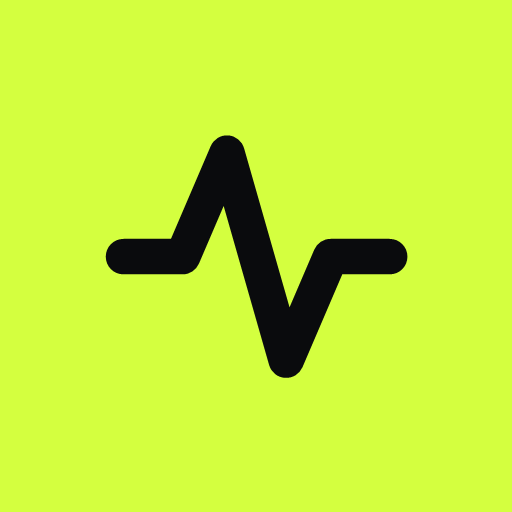
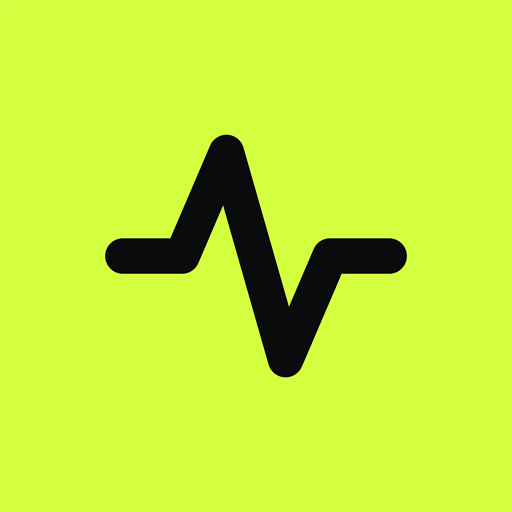
Add files via upload

diff --git a/app.js b/app.js
@@ -69,8 +69,9 @@ function fieldLabel(m, k) {
   return over[k] || base[k];
 }
 
-const HEX = { prep: '#FF8A3D', work: '#D4FF3F', rest: '#5CB4FF', setrest: '#5CB4FF' };
-const fieldColor = (k) => (k === 'prep' ? HEX.prep : k === 'work' ? HEX.work : k === 'rest' || k === 'setRest' ? HEX.rest : '#F4F5F1');
+// Colores de fase como variables CSS: en el iPhone usan la gama ampliada (Display P3) de app.css.
+const HEX = { prep: 'var(--orange)', work: 'var(--volt)', rest: 'var(--blue)', setrest: 'var(--blue)' };
+const fieldColor = (k) => (k === 'prep' ? HEX.prep : k === 'work' ? HEX.work : k === 'rest' || k === 'setRest' ? HEX.rest : 'var(--text)');
 
 function buildPhases(m, c) {
   const P = [];
@@ -832,9 +833,10 @@ function render(fresh) {
   const sc2 = app.querySelector('.scroll');
   if (sc2) sc2.scrollTop = keepScroll;
   window.scrollTo(0, keepY);
-  let bg = '#0A0B0D';
+  let bg = 'var(--bg)';
   if (S.screen === 'timer' && S.settings.fullColor && S.phases[S.idx]) bg = HEX[S.phases[S.idx].type];
   document.body.style.backgroundColor = bg;
+  document.documentElement.style.backgroundColor = bg;
   if (S.screen === 'timer') {
     bindTimer();
     tickUI();
@@ -1123,6 +1125,19 @@ render(true);
 
 // Guarda la app en el dispositivo para que funcione sin conexión (requiere https o el propio PC).
 if ('serviceWorker' in navigator && window.isSecureContext) {
+  const hadController = !!navigator.serviceWorker.controller;
+  let reloaded = false;
+  // Cuando llega una versión nueva, recarga sola (nunca en mitad de un entreno).
+  navigator.serviceWorker.addEventListener('controllerchange', () => {
+    if (!hadController || reloaded) return;
+    const reload = () => {
+      if (reloaded) return;
+      if (S.screen === 'timer') { setTimeout(reload, 5000); return; }
+      reloaded = true;
+      location.reload();
+    };
+    reload();
+  });
   navigator.serviceWorker.register('./sw.js').catch(() => {});
 }
 if (navigator.storage && navigator.storage.persist) navigator.storage.persist().catch(() => {});

diff --git a/sw.js b/sw.js
@@ -1,7 +1,8 @@
 // Tempo — service worker.
 // Guarda toda la app en el dispositivo al instalarla y desde entonces la sirve
-// SOLO desde esa copia local: nunca pide nada a Internet.
-const CACHE = 'tempo-v1';
+// SOLO desde esa copia local: nunca pide nada a Internet por su cuenta.
+// Al publicar cambios, sube el número de CACHE para que el iPhone recoja la versión nueva.
+const CACHE = 'tempo-v2';
 // Imprescindibles: si falta alguno, no se instala.
 const CORE = [
   './',
@@ -12,6 +13,7 @@ const CORE = [
   './icon-180.png',
   './icon-192.png',
   './icon-512.png',
+  './icon-1024.png',
 ];
 // Fuentes: si faltara alguna, la app usa la del sistema y sigue funcionando sin conexión.
 const FONTS = [
@@ -26,11 +28,13 @@ const FONTS = [
   './fonts/barlowcond_bolditalic.ttf',
   './fonts/barlowcond_extrabolditalic.ttf',
 ];
+// 'reload' evita copias antiguas guardadas por el navegador al actualizar.
+const fresh = (u) => new Request(u, { cache: 'reload' });
 
 self.addEventListener('install', (e) => {
   e.waitUntil(
     caches.open(CACHE)
-      .then((c) => c.addAll(CORE).then(() => Promise.all(FONTS.map((f) => c.add(f).catch(() => {})))))
+      .then((c) => c.addAll(CORE.map(fresh)).then(() => Promise.all(FONTS.map((f) => c.add(fresh(f)).catch(() => {})))))
       .then(() => self.skipWaiting())
   );
 });

diff --git a/app.css b/app.css
@@ -15,6 +15,14 @@
   --cond: 'BarlowC', 'Barlow Condensed', 'Arial Narrow', sans-serif;
   color-scheme: dark;
 }
+/* Pantallas de gama amplia (todos los iPhone modernos): colores más vivos que los que permite sRGB. */
+@media (color-gamut: p3) {
+  :root {
+    --volt: color(display-p3 0.80 1 0.16);
+    --blue: color(display-p3 0.26 0.66 1);
+    --orange: color(display-p3 1 0.47 0.12);
+  }
+}
 * { box-sizing: border-box; }
 html, body {
   margin: 0; background: var(--bg); color: var(--text);

diff --git a/index.html b/index.html
@@ -12,7 +12,7 @@
 <meta name="mobile-web-app-capable" content="yes">
 <meta name="apple-mobile-web-app-status-bar-style" content="black-translucent">
 <meta name="apple-mobile-web-app-title" content="Tempo">
-<link rel="apple-touch-icon" href="icon-180.png">
+<link rel="apple-touch-icon" href="icon-1024.png">
 <link rel="icon" type="image/png" href="icon-192.png">
 <link rel="manifest" href="manifest.webmanifest">
 <link rel="stylesheet" href="app.css">
